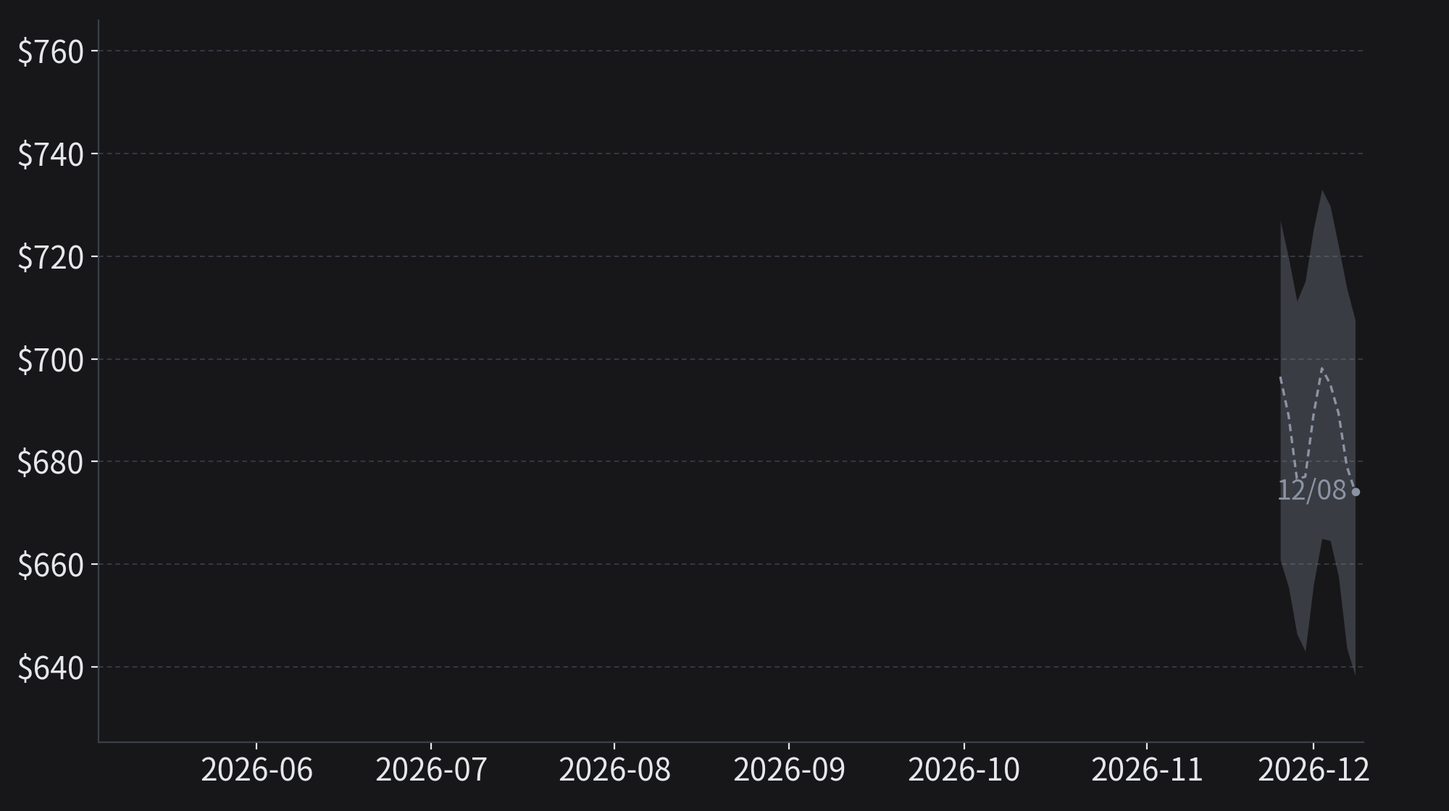
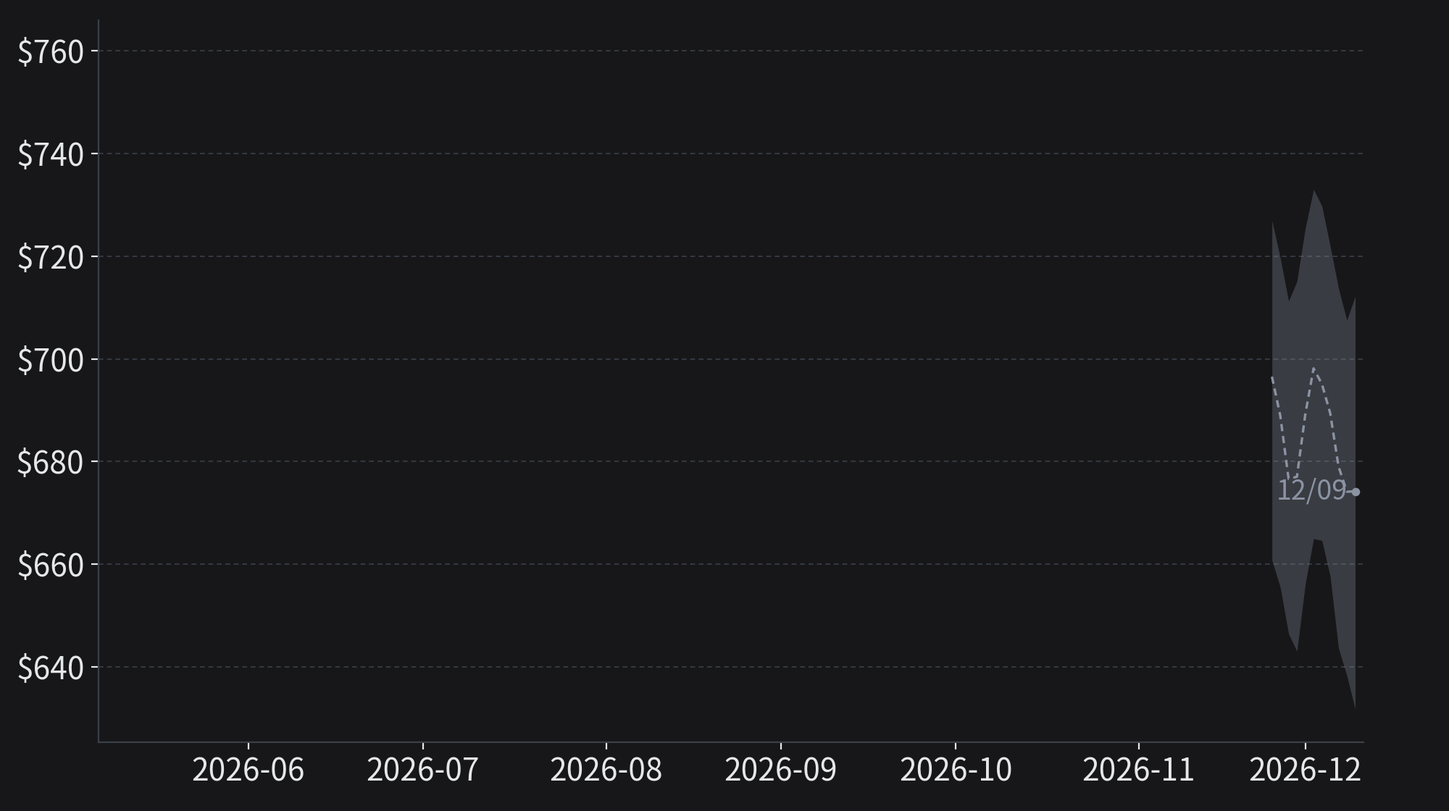
2026-11-05 nasdaq 리포트 공개본

diff --git a/r/20261105-nasdaq/report.html b/r/20261105-nasdaq/report.html
@@ -1,0 +1,133 @@
+<h2 id="1개월-지수-방향-예측">1개월 지수 방향 예측</h2>
+<p><img src="r/20261105-nasdaq/chart-nasdaq.png?v=a2790825b7" /></p>
+<p><img src="r/20261105-nasdaq/predict-nasdaq.png?v=035af97025" /></p>
+<h3 id="현재-상태-선거-뒤-지수는-올랐지만-반도체와-ai-인프라-주식은-하락했다"><mark>현재 상태</mark> 선거 뒤 지수는 올랐지만 반도체와 AI 인프라 주식은 하락했다</h3>
+<p>11월 4일 나스닥100은 0.9% 올랐다. 민주당이 중간선거에서 상원과 하원을 모두 차지했고, 같은 날 유가와 국채 금리가 함께 내렸다. 그러나 반도체 기업 30곳의 주가를 묶은 필라델피아 반도체지수는 3.1% 하락했다.</p>
+<p>TheStreet에 따르면 투자자는 데이터센터 규제를 우려했다. 장 마감 뒤에는 퀄컴이 다음 분기 이익을 시장 예상보다 낮게 전망했다. 나스닥100을 따라가는 ETF인 QQQ도 시간외 거래에서 1% 넘게 하락했다.</p>
+<p>VIX는 앞으로 한 달 동안 S&amp;P500의 변동폭을 옵션시장이 예상한 값이다. VIX가 하루에 20% 하락해 평상시 수준으로 내려오면서 주식시장의 공포가 크게 줄었다. 다만 공포가 줄었어도 나스닥100은 10월 6일 최고치보다 10% 넘게 낮다.</p>
+<h3 id="주요-분기와-예측-ai-인프라-기업의-신용과-이란-전쟁-물가-발표에-따라-이번-달-주가가-달라진다"><mark>주요 분기와 예측</mark> AI 인프라 기업의 신용과 이란 전쟁, 물가 발표에 따라 이번 달 주가가 달라진다</h3>
+<p>앞으로 한 달 동안 세 가지 사안이 중요하다. 첫째는 빚을 내 데이터센터를 짓는 기업의 자금 조달이다. 코어위브는 엔비디아의 그래픽처리장치(GPU)를 갖춘 데이터센터를 빌려주는 AI 클라우드 기업이다. 코어위브 같은 기업의 신용 불안은 커질 가능성이 높지만, 신용등급이 낮은 회사채 시장 전체에서는 커질 가능성이 낮다.</p>
+<p>둘째는 이란 전쟁이다. 미국이 이란 공습을 재개할 가능성은 선거 뒤 낮아졌다. 종전 합의가 이번 달 안에 발표될 가능성도 낮다.</p>
+<p>셋째는 10월 소비자물가다. 식품과 에너지를 뺀 근원 물가는 시장 예상대로 0.2% 안팎 오를 가능성이 높다.</p>
+<h3 id="지수-영향-횡보-가능성이-가장-높고-어제보다-횡보와-하락의-가능성이-커졌다"><mark>지수 영향</mark> 횡보 가능성이 가장 높고, 어제보다 횡보와 하락의 가능성이 커졌다</h3>
+<p>횡보 시나리오의 가능성이 가장 높고 하락 시나리오가 그다음이다. 코어위브 실적 때문에 신용에 대한 불안이 커지면 하락 시나리오의 가능성이 커진다. 근원 물가가 예상대로 낮게 나오면 횡보 가능성이 커진다.</p>
+<p>어제보다 횡보와 하락 시나리오의 가능성이 커졌고 큰 상승 시나리오의 가능성은 작아졌다. 투자자는 선거 뒤 데이터센터 규제를 새로 우려하게 됐다. 코어위브 채권의 가격은 가장 낮은 수준까지 하락했다. 다만 이란 공습이 재개될 가능성이 낮아져 큰 하락 시나리오의 가능성은 작아졌다.</p>
+<h2 id="주요-이슈-해설">주요 이슈 해설</h2>
+<h3 id="1-ai-인프라-신용과-데이터센터-규제-하락-요인-중요도-높음">1. AI 인프라 신용과 데이터센터 규제 <code>하락 요인</code> <code>중요도 높음</code></h3>
+<h4 id="현재-상태-선거-뒤-데이터센터-규제에-대한-우려-때문에-코어위브-채권의-가격이-더-하락했다"><mark>현재 상태</mark> 선거 뒤 데이터센터 규제에 대한 우려 때문에 코어위브 채권의 가격이 더 하락했다</h4>
+<p>블룸버그는 11월 4일 코어위브의 2031년 만기 채권이 액면가의 79.5% 수준까지 하락해 하이일드 채권 가운데 가장 부진했다고 전했다. 데이터센터 건설을 늦추자고 주장한 민주당 주지사 후보들이 승리하면서 채권 가격이 하락했다. 지나 이노호사는 텍사스의 주지사 선거에서 당선이 유력하다. 이노호사는 데이터센터 모라토리엄(신규 건설의 일시 중단)을 요구해 왔다.</p>
+<p>코어위브 채권의 가격이 낮아 투자자는 부도 위험을 이미 크게 예상하고 있다. CNBC에 따르면 코어위브의 5년 신용부도스와프(CDS, 부도에 대비하는 보험의 가격)는 통상 부실 신호로 보는 수준보다 높다. 다만 신용등급이 낮은 회사채 시장 전체에서는 불안이 커지지 않았다. 하이일드 채권 스프레드(투자자가 위험한 기업에 돈을 빌려줄 때 요구하는 신용 프리미엄)는 3월 고점보다 낮다.</p>
+<h4 id="주요-분기와-예측-신용-불안은-ai-인프라-기업에-한정될-가능성이-높다"><mark>주요 분기와 예측</mark> 신용 불안은 AI 인프라 기업에 한정될 가능성이 높다</h4>
+<p>AI 인프라 기업에서 신용 사건(빚을 제때 갚지 못하거나 갚는 조건을 바꾸는 일)이 이번 달 안에 일어날 가능성은 어제보다 커졌다. 코어위브는 11월부터 대출을 갚기 시작하고, 2027년 말까지 갚아야 할 원금은 6월 말에 쓸 수 있던 대출 한도와 비슷하다. 다만 우량 기술 기업이 금리를 더 주고서라도 자금을 조달하고 있으므로 신용등급이 낮은 회사채 시장 전체에서 불안이 커질 가능성은 낮다.</p>
+<p>주 의회가 이번 달 안에 데이터센터 규제를 법으로 만들 가능성도 낮다.</p>
+<p>11월 10일 실적 발표에서 코어위브의 이자비용이 회사 전망보다 크면 신용 사건이 일어날 가능성이 커진다.</p>
+<h4 id="지수-영향-신용-불안이-커지면-반도체-주가가-먼저-하락한다"><mark>지수 영향</mark> 신용 불안이 커지면 반도체 주가가 먼저 하락한다</h4>
+<p>데이터센터를 빌려주는 기업이 자금을 구하지 못하면 엔비디아의 고객이 줄어든다. 그러면 투자자는 반도체 주식을 판다. 엔비디아가 참여한 오하이오의 대형 데이터센터 프로젝트가 늦어질 위험이 커졌다고 모건스탠리는 밝혔다. 하이일드 채권 스프레드까지 오르면 지수가 크게 하락한다.</p>
+<p>2023년 3월 실리콘밸리은행이 파산하자 QQQ는 이틀 동안 약 3% 하락했다. 정부가 예금을 전액 보호하자 QQQ는 다음 이틀 동안 3% 넘게 올랐다.</p>
+<h3 id="2-체계적-펀드의-매도와-반등-상승-요인-중요도-높음">2. 체계적 펀드의 매도와 반등 <code>상승 요인</code> <code>중요도 높음</code></h3>
+<h4 id="현재-상태-vix가-크게-내려-체계적-펀드가-주식을-계속-팔-가능성이-줄었다"><mark>현재 상태</mark> VIX가 크게 내려 체계적 펀드가 주식을 계속 팔 가능성이 줄었다</h4>
+<p>체계적 펀드는 변동성이나 가격 추세에 따라 정해진 규칙대로 주식 비중을 바꾸는 펀드다. 이 펀드들은 10월 하락 때 기술주를 많이 팔았다. BofA는 10월 하순 나스닥100 선물이 추세 추종 펀드의 매도 기준선에 가깝다고 추정했다.</p>
+<p>11월 4일 VIX는 하루에 20% 하락해 2025년 4월 이후 가장 크게 내렸다. 변동성이 낮아지면 변동성에 맞춰 비중을 정하는 펀드는 주식을 다시 산다. 다만 투자자는 나스닥 주식의 하락에 대비하는 보험을 늘렸다. QQQ 옵션시장에서는 풋옵션 거래가 콜옵션 거래보다 많아졌다.</p>
+<h4 id="주요-분기와-예측-주가가-조금-내리면-매도가-늘고-크게-내리면-반등할-가능성이-높다"><mark>주요 분기와 예측</mark> 주가가 조금 내리면 매도가 늘고, 크게 내리면 반등할 가능성이 높다</h4>
+<p>VIX가 다시 20을 넘지 않으면 기계적 매도 규모는 커지지 않을 가능성이 높다. 지수가 지금보다 3% 가까이 하락하면 체계적 펀드의 추가 매도 규모가 줄어든다. 그러면 지수가 반등할 가능성이 높다. 반대로 VIX가 사흘 연속 20을 넘으면 체계적 펀드는 다시 주식을 판다.</p>
+<h4 id="지수-영향-지수가-크게-하락하면-펀드의-매도가-끝나-지수가-반등한다"><mark>지수 영향</mark> 지수가 크게 하락하면 펀드의 매도가 끝나 지수가 반등한다</h4>
+<p>체계적 펀드가 주식을 팔면 지수의 하락 폭이 커진다. 그러나 체계적 펀드의 매도가 끝나면 하락에 걸었던 투자자가 포지션을 정리하면서 주식을 다시 사들인다. 그러면 지수가 반등한다.</p>
+<p>2024년 8월 엔화를 빌려 한 투자가 한꺼번에 청산되자 나스닥 종합지수는 하루에 3.4% 하락했다. 투자자는 사흘쯤 주식을 판 뒤 매도를 멈췄다. 열흘 뒤 소매판매가 좋게 나오자 나스닥 종합지수는 2.3% 올랐다.</p>
+<h3 id="3-이란-전쟁의-공습-재개와-종전-합의-양방향-중요도-높음">3. 이란 전쟁의 공습 재개와 종전 합의 <code>양방향</code> <code>중요도 높음</code></h3>
+<h4 id="현재-상태-선거-뒤-투자자가-전쟁이-일찍-끝날-것으로-예상하면서-유가가-9-가까이-하락했다"><mark>현재 상태</mark> 선거 뒤 투자자가 전쟁이 일찍 끝날 것으로 예상하면서 유가가 9% 가까이 하락했다</h4>
+<p>11월 4일 브렌트유는 9% 가까이 하락해 배럴당 94달러대로 내렸다. 밴스 부통령은 공화당이 패배한 이유로 해외 분쟁을 들었다. 블룸버그에 따르면 그 뒤 투자자는 전쟁이 예상보다 빨리 끝나는 쪽으로 포지션을 바꿨다. 트럼프 대통령은 파이낸셜타임스 인터뷰에서 원하는 것을 다 얻고 있는 것 같다며 공격할 이유가 없을 수도 있다고 말했다.</p>
+<p>그러나 이란 관리는 합의가 가까워졌다는 보도를 곧바로 부인했다. 이란은 호르무즈 해협을 다시 열기 전에 석유 제재를 면제하고 해상 봉쇄와 동결자산을 해제하라고 먼저 요구하고 있다. 투자자가 종전을 일부 예상했기 때문에 유가가 이미 내렸다.</p>
+<h4 id="주요-분기와-예측-한-달-안에-공습-재개도-종전-합의도-일어나지-않을-가능성이-높다"><mark>주요 분기와 예측</mark> 한 달 안에 공습 재개도 종전 합의도 일어나지 않을 가능성이 높다</h4>
+<p>미국이 이란 본토에 대한 공습을 재개할 가능성은 선거 전보다 낮아졌다. 종전 합의가 이번 달 안에 발표될 가능성도 낮다. 다만 미군이 공습 계획을 준비해 두었으므로 공습 가능성이 사라지지는 않았다.</p>
+<p>트럼프 대통령이 공습을 승인하면 유가가 다시 오른다. 백악관과 이란 정부가 합의를 함께 확인하면 유가가 한 번 더 내린다.</p>
+<h4 id="지수-영향-공습이-재개되면-유가와-금리가-함께-올라-지수가-하락한다"><mark>지수 영향</mark> 공습이 재개되면 유가와 금리가 함께 올라 지수가 하락한다</h4>
+<p>유가가 오르면 투자자는 물가와 금리의 상승을 예상한다. 지금은 5년 기대 인플레이션이 평상시 범위에 있으므로 유가 상승에 따른 금리 인상 예상은 아직 커지지 않았다. 종전 합의가 나오면 유가와 국채 금리가 함께 내려 기술주가 오른다.</p>
+<p>2026년 4월 8일 2주 휴전이 발표된 날 나스닥 종합지수는 2.8% 올랐고 약 4주 동안 계속 올랐다. 그때는 반도체 기업의 이익 전망도 함께 올라갔다. 지금은 이익 전망이 올라가는 속도가 멈췄으므로 합의가 나와도 상승 폭은 그때보다 작을 가능성이 높다.</p>
+<h3 id="4-ai-수요와-실적-매도-뒤-반도체-회복-상승-요인-중요도-높음">4. AI 수요와 실적 매도 뒤 반도체 회복 <code>상승 요인</code> <code>중요도 높음</code></h3>
+<h4 id="현재-상태-ai-수요는-다시-확인됐지만-반도체-주가의-회복은-멈췄다"><mark>현재 상태</mark> AI 수요는 다시 확인됐지만 반도체 주가의 회복은 멈췄다</h4>
+<p>AMD는 4분기 매출 전망을 시장 예상보다 높게 냈고 3분기 데이터센터 매출이 1년 전보다 97% 늘었다. 그러나 AMD의 3분기 잉여현금흐름은 5억 5,400만 달러에 그쳤다. AMD는 재고가 약 30억 달러 늘어서 잉여현금흐름이 적었다고 설명했다.</p>
+<p>투자자는 AI 매출이 늘어도 현금 회수 능력이 약하면 반도체 주식을 판다. BofA는 AMD의 이익 추정치를 올렸지만 반도체 업종의 주가수익비율이 낮아진다는 이유로 목표주가를 낮췄다. 퀄컴은 메모리 가격 상승 때문에 휴대폰 판매가 줄어 휴대폰 칩 매출이 26% 줄었다고 밝혔다.</p>
+<p>반면 하이퍼스케일러(대형 클라우드 기업)의 주가는 같은 날 올랐다. 신규 데이터센터 건설이 줄면 설비투자가 줄어 현금흐름이 나아진다는 해석 때문이다.</p>
+<h4 id="주요-분기와-예측-10월-말-실적-매도-뒤-반도체-주가의-회복-폭은-작을-가능성이-높다"><mark>주요 분기와 예측</mark> 10월 말 실적 매도 뒤 반도체 주가의 회복 폭은 작을 가능성이 높다</h4>
+<p>하이퍼스케일러의 주가가 계속 오를 가능성이 높다. 반도체 주가의 회복 폭은 작을 가능성이 높다. 엔비디아는 11월 17일 실적을 발표한다. 엔비디아가 고객의 자금 조달에 문제가 없고 수요가 이어진다고 밝히면 반도체 주가의 회복 폭이 커진다.</p>
+<h4 id="지수-영향-현금-회수에-대한-우려가-줄면-대형-기술주-비중이-큰-지수가-오른다"><mark>지수 영향</mark> 현금 회수에 대한 우려가 줄면 대형 기술주 비중이 큰 지수가 오른다</h4>
+<p>나스닥100에서는 소수의 대형 기술주 비중이 크다. 그래서 투자자가 대형 기술주의 현금흐름이 나아진다고 보면 반도체 주가가 약해도 지수는 오른다.</p>
+<p>2026년 7월 알파벳이 잉여현금흐름 적자를 내자 기술주가 하락했다. 8일 뒤 마이크로소프트는 투자 계획을 유지하면서 클라우드 매출이 늘어난 모습을 보였다. 마이크로소프트 주가가 15.5% 오르자 기술주의 하락도 끝났다.</p>
+<h3 id="5-10월-소비자물가-발표-양방향-중요도-높음">5. 10월 소비자물가 발표 <code>양방향</code> <code>중요도 높음</code></h3>
+<h4 id="현재-상태-투자자는-연준이-12월에-금리를-올린다고-예상한다"><mark>현재 상태</mark> 투자자는 연준이 12월에 금리를 올린다고 예상한다</h4>
+<p>연준은 9월에 기준금리를 올렸고 10월에는 동결했다. CME FedWatch(금리 선물 가격으로 연준 회의의 금리 결정 확률을 계산하는 도구)는 11월 4일 12월 회의의 금리 인상 확률을 82%로 계산했다. 9월 근원 소비자물가는 전월보다 0.3% 올라 예상보다 높았다. 물가가 발표된 날 QQQ는 2% 하락했다. 클리블랜드 연은과 컨티넘 이코노믹스는 10월 근원 소비자물가가 0.2% 안팎 오른다고 예상했다.</p>
+<h4 id="주요-분기와-예측-근원-물가가-예상대로-02-오를-가능성이-높다"><mark>주요 분기와 예측</mark> 근원 물가가 예상대로 0.2% 오를 가능성이 높다</h4>
+<p>10월 근원 물가는 0.2% 오르는 데 그칠 가능성이 높다. 그러면 투자자는 12월 인상을 마지막 인상으로 보고 내년 인상 예상을 줄인다. 다만 9월에는 클리블랜드 연은의 물가 예측치가 실제보다 낮았으므로 이번에도 실제 물가가 예측치보다 높을 수 있다. 근원 물가가 0.3% 넘게 오르면 투자자는 내년 추가 인상을 예상한다.</p>
+<h4 id="지수-영향-물가가-높게-나오면-지수의-하루-하락-폭이-클-수-있다"><mark>지수 영향</mark> 물가가 높게 나오면 지수의 하루 하락 폭이 클 수 있다</h4>
+<p>근원 물가가 높게 나오면 국채 금리가 올라 성장주의 가치가 낮아진다. 10년물 물가연동국채 실질금리(물가 상승분을 뺀 국채 금리)가 반년 가까이 높으므로 금리가 더 오르면 기술주가 크게 하락한다. 근원 물가가 낮게 나오면 국채 금리가 내려 지수가 오른다.</p>
+<p>2023년 2월 파월 의장은 물가 상승률이 낮아지기 시작했다고 말했다. 그 뒤 이틀 동안 QQQ는 5% 넘게 올랐다. 그러나 사흘째에 1월 고용이 예상보다 강하게 나오자 QQQ는 1.8% 하락했다.</p>
+<h3 id="검토했지만-비중을-낮춘-이슈">검토했지만 비중을 낮춘 이슈</h3>
+<ul>
+<li><strong>앤트로픽 상장</strong>: 공모 가격 범위가 아직 나오지 않았다. 투자자가 앤트로픽 공모에 참여하려고 대형 AI 종목을 일부 팔 수 있지만 지수 방향을 바꿀 만큼 크지는 않다.</li>
+<li><strong>10월 고용보고서</strong>: 12월 금리 인상을 투자자가 이미 예상하므로 고용이 강하게 나와도 12월 예상은 크게 바뀌지 않는다.</li>
+<li><strong>엔비디아 3분기 실적</strong>: 매출 예상치가 그대로이므로 시장 예상과 같은 결과가 나올 가능성이 높다.</li>
+<li><strong>미국 중간선거 결과</strong>: 결과가 나왔고 주가가 이미 반응했다.</li>
+<li><strong>퀄컴 실적</strong>: 퀄컴 주가가 시간외 거래에서 이미 하락했고, 나스닥100에서 퀄컴의 비중이 작다.</li>
+</ul>
+<h2 id="다가오는-이벤트">다가오는 이벤트</h2>
+<h3 id="1103화-장후-amd-3분기-실적-중요도-보통" data-day="2026-11-03" data-level="mid"><span class="when">장후</span>AMD 3분기 실적 <code>중요도 보통</code></h3>
+<table class="events judged">
+<thead><tr><th>분기</th><th>확률</th><th>전개 예상</th></tr></thead>
+<tbody>
+<tr class="hit"><td class="branch">데이터센터 매출·4분기 가이던스 기대 상회</td><td class="chance">40%</td><td>AI 가속기 수요에 대한 의심이 줄어 반도체주가 반등하고 지수도 오른다. <span class="outcome">→ AMD는 3분기 매출 134억 달러로 가이던스 상단을 넘겼고, 4분기 매출을 약 170억 달러로 안내해 시장 예상 162억 달러를 웃돌았다. 시간외 주가는 5% 올랐지만 같은 시각 QQQ는 선거 개표 속에 0.5% 내렸다.</span></td></tr>
+<tr><td class="branch">4분기 가이던스 기대 미달</td><td class="chance">60%</td><td>투자자가 반도체주를 며칠 더 판다. 투자자가 가이던스 미달을 일부 예상했으므로 지수 하락 폭은 작다.</td></tr>
+</tbody>
+</table>
+<h3 id="1103화-장후-미국-중간선거-중요도-낮음" data-day="2026-11-03" data-level="low"><span class="when">11/04(수) 10:00 KST</span>미국 중간선거 <code>중요도 낮음</code></h3>
+<table class="events judged">
+<thead><tr><th>분기</th><th>확률</th><th>전개 예상</th></tr></thead>
+<tbody>
+<tr class="hit"><td class="branch">민주당 양원 장악</td><td class="chance">72%</td><td>시장이 예상한 결과라 주가가 크게 움직이지 않는다. 데이터센터 규제에 대한 우려 때문에 AI 종목은 조금 하락할 수 있다. <span class="outcome">→ 민주당이 상원에서 공화당 의석 7석을 뒤집어 54석을 얻었고 하원도 차지했다. 11/4 나스닥100은 0.9% 올랐지만 반도체지수는 3.1% 내렸다.</span></td></tr>
+<tr><td class="branch">민주 하원·공화 상원 분할</td><td class="chance">23%</td><td>정책이 크게 바뀌지 않는다는 안도 때문에 기술주가 오른다.</td></tr>
+<tr><td class="branch">공화당 양원 유지</td><td class="chance">5%</td><td>감세와 관세 정책이 이어진다는 기대 때문에 주가가 오르지만 국채 금리도 오르므로 주가는 크게 움직이지 않는다.</td></tr>
+</tbody>
+</table>
+<h3 id="1104수-장전-미국-중간선거-중요도-낮음" data-day="2026-11-04" data-level="low"><span class="when">11/04(수) 20:00 KST</span>미국 중간선거 <code>중요도 낮음</code></h3>
+<table class="events judged">
+<thead><tr><th>분기</th><th>확률</th><th>전개 예상</th></tr></thead>
+<tbody>
+<tr class="hit"><td class="branch">민주당 양원 장악</td><td class="chance">85%</td><td>시장이 이미 예상한 결과라 발표 뒤 주가가 크게 움직이지 않는다. <span class="outcome">→ 민주당이 상원에서 공화당 의석 7석을 뒤집어 54석을 얻었고 하원도 차지했다. 11/4 나스닥100은 0.9% 올랐지만 반도체지수는 3.1% 내렸다.</span></td></tr>
+<tr><td class="branch">민주 하원·공화 상원 분할</td><td class="chance">12%</td><td>정책 변화가 제한되는 결과라 기술주가 오른다.</td></tr>
+<tr><td class="branch">공화당 양원 유지</td><td class="chance">3%</td><td>규제 부담이 줄어 기술주가 조금 오른다.</td></tr>
+</tbody>
+</table>
+<h3 id="1104수-장전-재무부-4분기-자금조달-계획-중요도-낮음" data-day="2026-11-04" data-level="low"><span class="when">11/04(수) 22:30 KST</span>재무부 4분기 자금조달 계획 <code>중요도 낮음</code></h3>
+<table class="events judged">
+<thead><tr><th>분기</th><th>확률</th><th>전개 예상</th></tr></thead>
+<tbody>
+<tr><td class="branch">20·30년물 발행 축소</td><td class="chance">22%</td><td>장기 국채 공급이 줄어 장기금리가 내리고 주가가 조금 오른다.</td></tr>
+<tr class="hit"><td class="branch">쿠폰 규모 유지(장기 바이백 확대 포함)</td><td class="chance">70%</td><td>시장이 예상한 결과라 주가가 크게 움직이지 않는다. <span class="outcome">→ 재무부는 쿠폰·변동금리채 입찰 규모를 향후 몇 분기 유지한다고 밝혔고, 8월 성명에 있던 '최소' 수식어를 뺐다. 11/4 10년물 금리는 6bp 내린 4.89%로 마감했다.</span></td></tr>
+<tr><td class="branch">유지 문구 삭제·장기물 증액 신호</td><td class="chance">8%</td><td>장기 국채 공급이 늘어날 것이라는 걱정 때문에 장기금리가 오르고 주가가 하락한다.</td></tr>
+</tbody>
+</table>
+<p><img src="r/20261105-nasdaq/tree-nasdaq.png?v=1f7d5aba69" /></p>
+<h3 id="1106금-장전-10월-고용보고서-중요도-보통" data-day="2026-11-06" data-level="mid"><span class="when">11/06(금) 22:30 KST</span>10월 고용보고서 <code>중요도 보통</code></h3>
+<table class="events">
+<thead><tr><th>분기</th><th>확률</th><th>전개 예상</th></tr></thead>
+<tbody>
+<tr><td class="branch">실업률 4.1% 이하·고용 견조</td><td class="chance">32%<br><small class="delta up">▲2%p</small></td><td>내년 금리 인상 예상이 커져 주가가 하락한다</td></tr>
+<tr><td class="branch">실업률 4.2~4.3% 완만한 둔화</td><td class="chance">58%<br><small class="delta down">▼2%p</small></td><td>시장이 예상한 결과라 주가가 크게 움직이지 않는다</td></tr>
+<tr><td class="branch">실업률 4.4% 이상 급랭</td><td class="chance">10%<br><small class="delta flat">–</small></td><td>금리는 내리지만 경기가 식는다는 우려가 커진다. 신용 불안이 함께 커지면 주가가 하락한다</td></tr>
+</tbody>
+</table>
+<h3 id="1110화-장전-미중-무역휴전희토류-유예-만료-중요도-낮음" data-day="2026-11-10" data-level="low"><span class="when">11/10(화) 14:01 KST</span>미중 무역휴전·희토류 유예 만료 <code>중요도 낮음</code></h3>
+<table class="events">
+<thead><tr><th>분기</th><th>확률</th><th>전개 예상</th></tr></thead>
+<tbody>
+<tr><td class="branch">유예 연장 공고·통제 정지 유지</td><td class="chance">80%<br><small class="delta flat">–</small></td><td>휴전이 내년 1월까지 연장돼 있어 주가가 크게 움직이지 않는다</td></tr>
+<tr><td class="branch">301조 제외 만료 또는 희토류 통제 재개</td><td class="chance">20%<br><small class="delta flat">–</small></td><td>반도체 공급망 비용이 오른다는 우려 때문에 주가가 조금 하락한다</td></tr>
+</tbody>
+</table>
+<h3 id="1110화-장전-10월-cpi-중요도-높음" data-day="2026-11-10" data-level="high"><span class="when">11/10(화) 22:30 KST</span>10월 CPI <code>중요도 높음</code></h3>
+<table class="events">
+<thead><tr><th>분기</th><th>확률</th><th>전개 예상</th></tr></thead>
+<tbody>
+<tr><td class="branch">근원 전월비 0.3% 이상</td><td class="chance">38%<br><small class="delta flat">–</small></td><td>내년 추가 금리 인상에 대한 우려가 커져 주가가 하락한다</td></tr>
+<tr><td class="branch">근원 전월비 0.2% 이하</td><td class="chance">62%<br><small class="delta flat">–</small></td><td>12월 인상이 마지막이라는 기대가 커져 주가가 오른다</td></tr>
+</tbody>
+</table>
